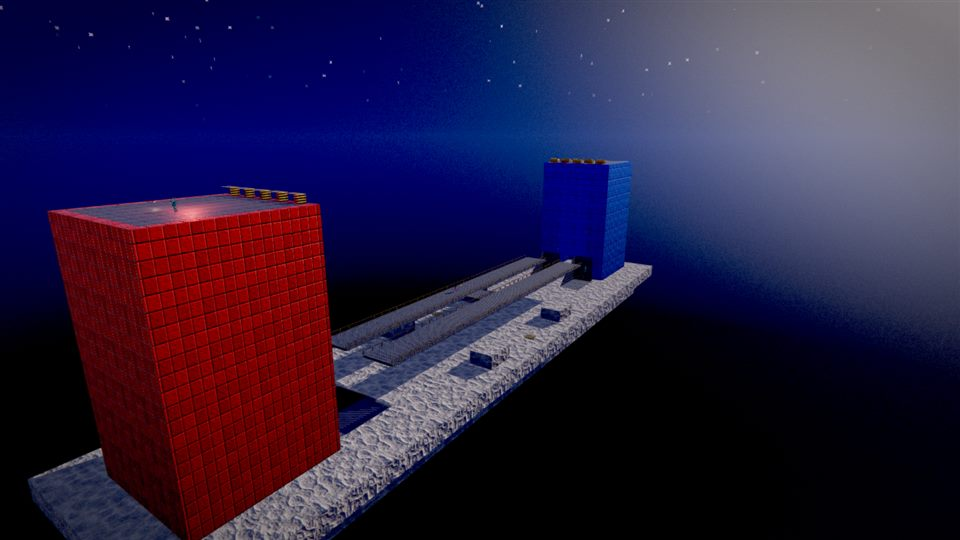
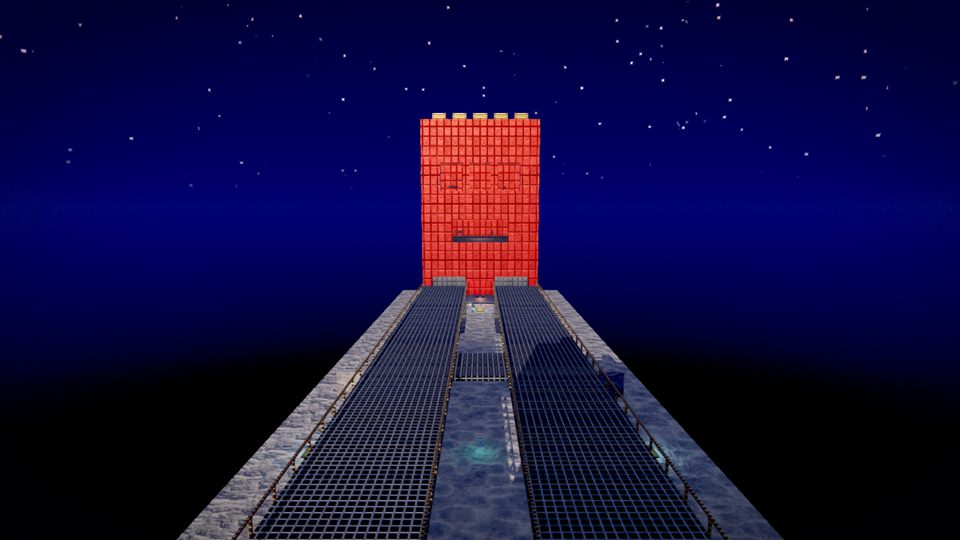
對峙世界依原作重建塔樓，並修好被設定覆蓋的命令列參數
先查證原作再動手。塔樓不是空心的，也沒有貫穿的洞——是實心量體，在面向場中的那一面開了
三個洞口：底部入口、中段的救世主壁龕（原作攻略就直接稱它 the Redeemer hole）、以及上方
由兩根柱子分成三個射擊位的狙擊廊。之前那版用內部螺旋坡道爬塔，兩件事都錯了：原作各層之間
是用傳送器移動（出廠時是升降梯，因為電腦對手不會用而換掉），而且各層是獨立的房間而非一根
豎井。傳送器正好也是這個引擎需要的——那種坡度的坡道根本不產生任何電腦對手路徑。

道具依原作各基地的清單重排：救世主 ×1、狙擊步槍 ×3、撕裂者 ×1、震盪步槍 ×1、火箭發射器
×1、醫療包 ×4、身體護甲 ×1、傷害增幅 ×1，外加彈藥。中央只有一樣東西：小行星正中央的
大血桶。先前那版在橋上散了救世主、護盾帶和四把槍，等於把最危險的通道變成最安全的補給站。

另外修掉一個我自己造成的回歸：設定持久化是在 ParseArgs 之後才套用的，於是存檔裡的值會
無聲蓋掉命令列。--map、--bots、--skill、--frags、--time、--players、--mode、--quality
自加入持久化以來全部失效——這也是為什麼 --map 15 拍出來的是別張圖。現在會記錄哪些選項
來自命令列，套用設定時跳過它們。

diff --git a/src/Unreal99/World/ClassicMaps.cs b/src/Unreal99/World/ClassicMaps.cs
@@ -24,6 +24,14 @@ public static partial class Maps
     /// Two identical towers at opposite ends of a narrow strip of rock adrift in orbit, joined
     /// by a split central bridge. Flags sit at each tower's base, snipers own the roofs, and the
     /// long open middle is the whole game.
+    ///
+    /// The towers are solid blocks with three openings punched in the face that looks down the
+    /// map — entrance, a Redeemer alcove partway up, and a pillared sniping gallery above it.
+    /// An earlier version climbed them with internal switchback ramps, which was wrong twice
+    /// over: the original moves you between floors by teleporter (it shipped with lifts and
+    /// swapped them because the bots could not use them), and the floors are separate chambers
+    /// rather than one shaft. The teleporters happen to be what this engine's nav graph needs
+    /// too, since ramps that steep carry no bot routes at all.
     /// </summary>
     private static Level BuildFacingWorlds(GL gl)
     {
@@ -65,7 +73,11 @@ public static partial class Maps
             MatId teamMat = team == Team.Red ? MatId.TeamRed : MatId.TeamBlue;
             float z = TowerZ * sign;
 
-            // --- tower shell: four walls, open toward the middle of the map ---
+            // --- tower shell ---
+            // The tower is a solid block, not a frame: the original's whole geometry budget went
+            // into these two shapes, and what it has are three openings punched in the face that
+            // looks down the map — the entrance at the bottom, a Redeemer alcove partway up, and
+            // a pillared sniping gallery above that. You cannot see through a tower.
             const float Wall = 1.6f;
             float innerFace = z - TowerHalf * sign;    // the face looking down the map
             float outerFace = z + TowerHalf * sign;
@@ -74,18 +86,52 @@ public static partial class Maps
                     new Vector3(-TowerHalf, TowerTop, MathF.Max(innerFace, outerFace)), teamMat, true, 0.55f);
             b.Solid(new Vector3(TowerHalf, DeckY, MathF.Min(innerFace, outerFace)),
                     new Vector3(TowerHalf + Wall, TowerTop, MathF.Max(innerFace, outerFace)), teamMat, true, 0.55f);
-            // Back wall.
             b.Solid(new Vector3(-TowerHalf - Wall, DeckY, MathF.Min(outerFace, outerFace + Wall * sign)),
                     new Vector3(TowerHalf + Wall, TowerTop, MathF.Max(outerFace, outerFace + Wall * sign)),
                     teamMat, true, 0.55f);
-            // Front wall with a wide arch onto the strip.
+
             float f0 = MathF.Min(innerFace, innerFace - Wall * sign);
             float f1 = MathF.Max(innerFace, innerFace - Wall * sign);
-            b.Solid(new Vector3(-TowerHalf - Wall, DeckY, f0), new Vector3(-5.5f, TowerTop, f1), teamMat, true, 0.55f);
-            b.Solid(new Vector3(5.5f, DeckY, f0), new Vector3(TowerHalf + Wall, TowerTop, f1), teamMat, true, 0.55f);
-            b.Solid(new Vector3(-5.5f, 7.5f, f0), new Vector3(5.5f, TowerTop, f1), teamMat, true, 0.55f);
 
-            // --- flag room floor and the dais the flag stands on ---
+            const float EntryTop = 7.5f;
+            const float MidFloor = 15f, MidTop = 21f;
+            const float GalleryFloor = 26f, GalleryTop = 33f;
+
+            // Front face, emitted as horizontal bands so the three openings are simply gaps.
+            void FrontBand(float y0, float y1, float holeHalf)
+            {
+                if (holeHalf <= 0f)
+                {
+                    b.Solid(new Vector3(-TowerHalf - Wall, y0, f0), new Vector3(TowerHalf + Wall, y1, f1),
+                        teamMat, true, 0.55f);
+                    return;
+                }
+                b.Solid(new Vector3(-TowerHalf - Wall, y0, f0), new Vector3(-holeHalf, y1, f1), teamMat, true, 0.55f);
+                b.Solid(new Vector3(holeHalf, y0, f0), new Vector3(TowerHalf + Wall, y1, f1), teamMat, true, 0.55f);
+            }
+            FrontBand(DeckY, EntryTop, 5.5f);
+            FrontBand(EntryTop, MidFloor + 1f, 0f);
+            FrontBand(MidFloor + 1f, MidTop, 6f);
+            FrontBand(MidTop, GalleryFloor + 1f, 0f);
+            FrontBand(GalleryFloor + 1f, GalleryTop, 8.5f);
+            FrontBand(GalleryTop, TowerTop, 0f);
+            // The two pillars that split the gallery into three firing slots.
+            foreach (float px in new[] { -3.0f, 3.0f })
+                b.Solid(new Vector3(px - 0.7f, GalleryFloor + 1f, f0), new Vector3(px + 0.7f, GalleryTop, f1),
+                    teamMat, true, 0.55f);
+
+            // --- interior floors and ceilings ---
+            void Slab(float y0, float y1, MatId mat) => b.Solid(
+                new Vector3(-TowerHalf, y0, MathF.Min(innerFace, outerFace)),
+                new Vector3(TowerHalf, y1, MathF.Max(innerFace, outerFace)), mat, true, 0.8f);
+            Slab(11f, 12f, MatId.TechPanelDark);              // flag room ceiling
+            Slab(MidFloor, MidFloor + 1f, MatId.MetalGrate);   // Redeemer alcove floor
+            Slab(24f, 25f, MatId.TechPanelDark);
+            Slab(GalleryFloor, GalleryFloor + 1f, MatId.MetalGrate);
+            Slab(38f, 39f, MatId.TechPanelDark);
+            Slab(TowerTop - 0.8f, TowerTop, MatId.TechPanelDark);   // roof deck
+
+            // --- flag room ---
             Vector3 flagPos = new(0f, 0.6f, z + 4.5f * sign);
             b.Solid(new Vector3(-6f, DeckY, flagPos.Z - 4.5f), new Vector3(6f, 0.6f, flagPos.Z + 4.5f),
                 MatId.TechPanelDark);
@@ -94,30 +140,33 @@ public static partial class Maps
                    sign > 0 ? 2 : 3, MatId.TechFloor);
             b.AddFlagBase(flagPos, team, sign > 0 ? 180f : 0f);
 
-            // --- ramps spiralling up the inside of the tower ---
-            float[] levels = [8f, 16f, 24f, 32f];
-            for (int i = 0; i < levels.Length; i++)
-            {
-                float y = levels[i];
-                float prev = i == 0 ? DeckY + 0.6f : levels[i - 1];
-                bool onLeft = i % 2 == 0;
-                float rx0 = onLeft ? -TowerHalf : TowerHalf - 7f;
-                float rx1 = onLeft ? -TowerHalf + 7f : TowerHalf;
-
-                // Landing hugging one wall, then a ramp climbing along the opposite wall.
-                b.Solid(new Vector3(rx0, y - 0.5f, z - 9f), new Vector3(rx1, y, z + 9f),
+            // Platform under the entrance ceiling holding the amplifier, as in the original.
+            b.Solid(new Vector3(-4f, 8.2f, MathF.Min(innerFace, innerFace + 5f * sign)),
+                    new Vector3(4f, 8.8f, MathF.Max(innerFace, innerFace + 5f * sign)),
                     MatId.MetalGrate, true, 0.9f);
-                float mx0 = onLeft ? -TowerHalf + 7f : TowerHalf - 14f;
-                float mx1 = onLeft ? -TowerHalf + 14f : TowerHalf - 7f;
-                b.Ramp(new Vector3(mx0, prev - 0.5f, z - 4.5f), new Vector3(mx1, y, z + 4.5f),
-                    onLeft ? 1 : 0, MatId.TechFloor);
+            b.AddJumpPad(new Vector3(0f, DeckY + 0.1f, z - 7.5f * sign),
+                         new Vector3(0f, 10.2f, z - 8f * sign + 5f * sign), new Vector3(0.4f, 0.85f, 1f));
 
-                b.AddLight(new Vector3(0f, y + 3.2f, z), teamColor * 0.55f + new Vector3(0.35f), 15f, 3.2f);
-            }
+            // --- three teleporters out of the flag room, exactly as the original does it ---
+            // Not ramps and not lifts. The original shipped with lifts and swapped them for
+            // teleporters because the bots could not cope; this engine agrees for its own reason,
+            // since only pads, lifts and teleporters create nav links at all.
+            Vector3 midChamber = new(0f, MidFloor + 1.2f, z + 3f * sign);
+            Vector3 gallery = new(0f, GalleryFloor + 1.2f, z + 3f * sign);
+            Vector3 roof = new(0f, TowerTop + 0.2f, z + 4f * sign);
+            float faceIn = sign > 0 ? 180f : 0f;
+
+            b.AddTeleporter(new Vector3(-6f, DeckY + 0.2f, z), midChamber, faceIn, teamColor * 0.6f + new Vector3(0.3f));
+            b.AddTeleporter(new Vector3(6f, DeckY + 0.2f, z), gallery, faceIn, teamColor * 0.6f + new Vector3(0.3f));
+            b.AddTeleporter(new Vector3(0f, DeckY + 0.2f, z + 1f * sign), roof, faceIn, new Vector3(1f, 0.75f, 0.35f));
+            // Return trips. Without a way down the nav graph strands anyone it sends up, and the
+            // drop from the roof to the rock is lethal.
+            Vector3 lobby = new(0f, DeckY + 0.2f, z - 4f * sign);
+            b.AddTeleporter(midChamber + new Vector3(-5f, 0f, 0f), lobby, faceIn, teamColor * 0.5f + new Vector3(0.25f));
+            b.AddTeleporter(gallery + new Vector3(-6.5f, 0f, 0f), lobby, faceIn, teamColor * 0.5f + new Vector3(0.25f));
+            b.AddTeleporter(roof + new Vector3(-7f, 0f, 0f), lobby, faceIn, teamColor * 0.5f + new Vector3(0.25f));
 
             // --- roof: the sniper perch, with battlements you can duck behind ---
-            b.Solid(new Vector3(-TowerHalf, TowerTop - 0.6f, z - TowerHalf),
-                    new Vector3(TowerHalf, TowerTop, z + TowerHalf), MatId.TechPanelDark);
             for (int i = -2; i <= 2; i++)
             {
                 float bx = i * 4.4f;
@@ -126,29 +175,41 @@ public static partial class Maps
                         MatId.Trim, true, 1.1f);
             }
             b.AddLight(new Vector3(0f, TowerTop + 4f, z), teamColor, 26f, 6f);
+            b.AddLight(new Vector3(0f, 6f, z), teamColor * 0.55f + new Vector3(0.35f), 20f, 4.2f);
+            b.AddLight(new Vector3(0f, MidFloor + 4f, z), teamColor * 0.5f + new Vector3(0.3f), 16f, 3.4f);
+            b.AddLight(new Vector3(0f, GalleryFloor + 4f, z), teamColor * 0.5f + new Vector3(0.3f), 16f, 3.4f);
 
-            // The lift is the fast way to the roof; the ramps are the safe way.
-            b.Lift(new Vector3(-2.6f, TowerTop - 8.4f, z + 6.5f * sign - 2.6f),
-                   new Vector3(2.6f, TowerTop - 8.0f, z + 6.5f * sign + 2.6f),
-                   new Vector3(0f, 8.0f, 0f), MatId.TechPanelDark, period: 7f, dwell: 0.25f);
-
-            // --- loadout ---
-            b.Weapon(new Vector3(0f, TowerTop + 0.9f, z + 3f * sign), WeaponKind.SniperRifle);
-            b.Ammo(new Vector3(3.5f, TowerTop + 0.7f, z + 3f * sign), AmmoKind.SniperRounds);
-            b.Ammo(new Vector3(-3.5f, TowerTop + 0.7f, z + 3f * sign), AmmoKind.SniperRounds);
-            b.Weapon(new Vector3(-7.5f, 8.9f, z), WeaponKind.RocketLauncher);
-            b.Weapon(new Vector3(7.5f, 16.9f, z), WeaponKind.FlakCannon);
-            b.Weapon(new Vector3(-7.5f, 24.9f, z), WeaponKind.Minigun);
+            // --- loadout, matching the original's per-base inventory ---
+            // Per base: Redeemer x1, Sniper Rifle x3, Ripper x1, Shock Rifle x1, Rocket Launcher
+            // x1, Health Pack x4, Body Armor x1, Damage Amplifier x1, plus shock cores, rocket
+            // packs and rifle rounds. Everything the map gives you is inside your own tower.
             b.Weapon(new Vector3(0f, 0.9f, z - 6f * sign), WeaponKind.ShockRifle);
-            b.Item(new Vector3(-4f, 1.4f, flagPos.Z), PickupKind.BodyArmor);
-            b.Item(new Vector3(4f, 1.4f, flagPos.Z), PickupKind.HealthPack);
-            b.Ammo(new Vector3(-7.5f, 8.7f, z - 3f), AmmoKind.Rockets);
-            b.Ammo(new Vector3(7.5f, 16.7f, z - 3f), AmmoKind.FlakShells);
+            b.Weapon(new Vector3(-4f, 1.4f, flagPos.Z), WeaponKind.RocketLauncher);
+            b.Weapon(new Vector3(4f, 1.4f, flagPos.Z), WeaponKind.Ripper);
+            foreach (float hx in new[] { -8f, -3f, 3f, 8f })
+                b.Item(new Vector3(hx, 0.7f, z - 8.5f * sign), PickupKind.HealthPack);
+            b.Ammo(new Vector3(-7f, 0.7f, z - 2f * sign), AmmoKind.Rockets);
+            b.Ammo(new Vector3(-9f, 0.7f, z - 2f * sign), AmmoKind.Rockets);
+            b.Ammo(new Vector3(7f, 0.7f, z - 2f * sign), AmmoKind.ShockCore);
+            b.Ammo(new Vector3(9f, 0.7f, z - 2f * sign), AmmoKind.ShockCore);
+            b.Ammo(new Vector3(-6f, 0.7f, z + 1f * sign), AmmoKind.SniperRounds);
+            b.Ammo(new Vector3(6f, 0.7f, z + 1f * sign), AmmoKind.SniperRounds);
+            b.Item(new Vector3(0f, 9.7f, z - 8.5f * sign), PickupKind.DamageAmp);
+            b.Ammo(new Vector3(2.5f, 9.5f, z - 8.5f * sign), AmmoKind.Rockets);
+            b.Ammo(new Vector3(-2.5f, 9.5f, z - 8.5f * sign), AmmoKind.Rockets);
+
+            b.Weapon(midChamber + new Vector3(3f, 0.7f, 0f), WeaponKind.Redeemer, respawn: 95f);
+            // Two of the gallery's three firing slots hold a rifle; the third is the free spot.
+            b.Weapon(gallery + new Vector3(-6f, 0.7f, 0f), WeaponKind.SniperRifle);
+            b.Weapon(gallery + new Vector3(6f, 0.7f, 0f), WeaponKind.SniperRifle);
+            b.Ammo(gallery + new Vector3(0f, 0.5f, 2.5f * sign), AmmoKind.SniperRounds);
+            b.Weapon(roof + new Vector3(0f, 0.7f, 0f), WeaponKind.SniperRifle);
+            b.Ammo(roof + new Vector3(3.5f, 0.5f, 0f), AmmoKind.SniperRounds);
+            b.Item(roof + new Vector3(-3.5f, 0.6f, 0f), PickupKind.BodyArmor);
 
             // Clear of the flag dais, which occupies the back of the tower floor.
             for (int i = 0; i < 5; i++)
-                b.Spawn(new Vector3(-8f + i * 4f, DeckY + 0.2f, z - 2f * sign), sign > 0 ? 180f : 0f, team);
-            b.Spawn(new Vector3(0f, TowerTop + 0.2f, z + 7f * sign), sign > 0 ? 180f : 0f, team);
+                b.Spawn(new Vector3(-8f + i * 4f, DeckY + 0.2f, z - 2f * sign), faceIn, team);
         }
 
         // --- the central bridge: two lanes with a gap down the middle ---
@@ -175,20 +236,12 @@ public static partial class Maps
             b.AddJumpPad(new Vector3(i * 16f, 0.1f, 0f), new Vector3(i * 7.5f, BridgeY + 1.6f, 0f),
                 new Vector3(0.35f, 0.8f, 1f));
         }
-        b.Weapon(new Vector3(0f, BridgeY + 0.9f, 0f), WeaponKind.Redeemer, 110f);
-        b.Item(new Vector3(-6.5f, BridgeY + 0.8f, 0f), PickupKind.ShieldBelt);
-        b.Item(new Vector3(6.5f, BridgeY + 0.8f, 0f), PickupKind.DamageAmp);
-        b.Item(new Vector3(0f, 0.7f, -30f), PickupKind.SuperHealth);
-        b.Item(new Vector3(0f, 0.7f, 30f), PickupKind.SuperHealth);
-        for (int i = 0; i < 6; i++)
-        {
-            float z = -50f + i * 20f;
-            b.Item(new Vector3(-13f, 0.6f, z), PickupKind.HealthVial);
-            b.Item(new Vector3(13f, 0.6f, z), PickupKind.HealthVial);
-        }
-        b.Weapon(new Vector3(-13f, 0.9f, 0f), WeaponKind.PulseGun);
-        b.Weapon(new Vector3(13f, 0.9f, 0f), WeaponKind.BioRifle);
-        b.Spawn(new Vector3(0f, BridgeY + 0.2f, 0f), 0f);
+        // The middle holds exactly one thing: the big keg at the centre of the asteroid. No
+        // weapons, no armour, no vials. Crossing it with nothing to pick up on the way, under
+        // fire from two towers, is the entire map — an earlier pass had a Redeemer, a shield
+        // belt and four guns strewn along the bridge, which quietly turned the crossing into
+        // the safest place to shop.
+        b.Item(new Vector3(0f, 0.7f, 0f), PickupKind.SuperHealth);
 
         return b.Build(gl);
     }

diff --git a/src/Unreal99/App.cs b/src/Unreal99/App.cs
@@ -217,36 +217,44 @@ public sealed class App : IDisposable
                     break;
                 case "--players" when i + 1 < args.Length:
                     _menu.LocalPlayers = MathX.Clamp(int.TryParse(args[i + 1], out int p) ? p : 1, 1, 4);
+                    _cliOverrides.Add("players");
                     i++;
                     break;
                 case "--bots" when i + 1 < args.Length:
                     _menu.BotCount = MathX.Clamp(int.TryParse(args[i + 1], out int b) ? b : 7, 0, 15);
+                    _cliOverrides.Add("bots");
                     i++;
                     break;
                 case "--map" when i + 1 < args.Length:
                     if (int.TryParse(args[i + 1], out int m)) _menu.Map = (MapId)MathX.Clamp(m, 0, (int)MapId.Count - 1);
+                    _cliOverrides.Add("map");
                     i++;
                     break;
                 case "--mode" when i + 1 < args.Length:
                     if (int.TryParse(args[i + 1], out int gm))
                         _menu.ModeKind = (GameModeKind)MathX.Clamp(gm, 0, 4);
+                    _cliOverrides.Add("mode");
                     i++;
                     break;
                 case "--frags" when i + 1 < args.Length:
                     if (int.TryParse(args[i + 1], out int fl)) _menu.FragLimit = MathX.Clamp(fl, 0, 100);
+                    _cliOverrides.Add("frags");
                     i++;
                     break;
                 case "--time" when i + 1 < args.Length:
                     if (int.TryParse(args[i + 1], out int tl)) _menu.TimeLimitMinutes = MathX.Clamp(tl, 0, 60);
+                    _cliOverrides.Add("time");
                     i++;
                     break;
                 case "--skill" when i + 1 < args.Length:
                     if (int.TryParse(args[i + 1], out int sk))
                         _menu.BotSkill = MathX.Clamp(sk, 0, Loc.SkillNames.Length - 1);
+                    _cliOverrides.Add("skill");
                     i++;
                     break;
                 case "--quality" when i + 1 < args.Length:
                     if (int.TryParse(args[i + 1], out int q)) _renderSettings.Apply((QualityLevel)MathX.Clamp(q, 0, 3));
+                    _cliOverrides.Add("quality");
                     i++;
                     break;
             }
@@ -363,6 +371,12 @@ public sealed class App : IDisposable
         TimeLimitMinutes = _menu.TimeLimitMinutes,
     };
 
+    /// <summary>
+    /// Options named on the command line. Saved settings are applied after argument parsing, so
+    /// without this the stored value would quietly win and every flag would be ignored.
+    /// </summary>
+    private readonly HashSet<string> _cliOverrides = new();
+
     private void LoadUserSettings()
     {
         var saved = SettingsStore.Load();
@@ -372,15 +386,16 @@ public sealed class App : IDisposable
         SettingsStore.Apply(saved, _renderSettings, _controls, _playerDevices, setup,
             out float volume, out bool vsync, out bool showFps);
 
-        _menu.Map = (MapId)MathX.Clamp(setup.Map, 0, (int)MapId.Count - 1);
-        _menu.ModeKind = (GameModeKind)setup.ModeKind;
-        _menu.LocalPlayers = setup.LocalPlayers;
-        _menu.BotCount = setup.BotCount;
-        _menu.BotSkill = setup.BotSkill;
-        _menu.FragLimit = setup.FragLimit;
-        _menu.CaptureLimit = setup.CaptureLimit;
-        _menu.TimeLimitMinutes = setup.TimeLimitMinutes;
-        _menu.DemoMode = saved.DemoMode;
+        if (!_cliOverrides.Contains("map")) _menu.Map = (MapId)MathX.Clamp(setup.Map, 0, (int)MapId.Count - 1);
+        if (!_cliOverrides.Contains("mode")) _menu.ModeKind = (GameModeKind)setup.ModeKind;
+        if (!_cliOverrides.Contains("players")) _menu.LocalPlayers = setup.LocalPlayers;
+        if (!_cliOverrides.Contains("bots")) _menu.BotCount = setup.BotCount;
+        if (!_cliOverrides.Contains("skill")) _menu.BotSkill = setup.BotSkill;
+        if (!_cliOverrides.Contains("frags")) _menu.FragLimit = setup.FragLimit;
+        if (!_cliOverrides.Contains("frags")) _menu.CaptureLimit = setup.CaptureLimit;
+        if (!_cliOverrides.Contains("time")) _menu.TimeLimitMinutes = setup.TimeLimitMinutes;
+        if (!_cliOverrides.Contains("quality")) _renderSettings.Apply((QualityLevel)MathX.Clamp(saved.Quality, 0, 3));
+        _menu.DemoMode = saved.DemoMode || _demoMode;
         _menu.DemoSkill = MathX.Clamp(saved.DemoSkill, 0, 5);
 
         if (_audio != null) _audio.MasterVolume = volume;

diff --git a/README.md b/README.md
@@ -136,7 +136,7 @@ artifacts\installer\Unreal99Installer.exe --help
 | 12 | DM-超載星艦 | *HyperBlast* | 對稱星艦內艙，上層天橋貫穿全船 |
 | 13 | CTF-科瑞特設施 | *Coret Facility* | 上下兩條路線從基地直通中央大廳 |
 | 14 | CTF-十一月號 | *November* | 潛艦碼頭，中央水道的潛艦艦身是最高的爭奪點 |
-| 15 | CTF-對峙世界 | *Facing Worlds* | 兩座小行星塔樓、螺旋坡道，中央狹橋上放著救世主 |
+| 15 | CTF-對峙世界 | *Facing Worlds* | 兩座塔樓各開三個面向場中的洞口，傳送器連接各層，中央一無所有 |
 | 16 | CTF-熔岩巨人 | *Lava Giant* | 熔岩海中的紅藍雙堡，中央山脊是必爭之地 |
 
 低重力關卡由 `Level.GravityScale` 控制；角色重力、投射物重力、跳台的彈道解算與電腦對手的
